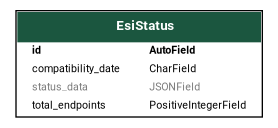
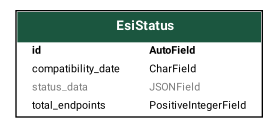
[RELEASE] v3.4.0
## [3.4.0] - 2026-06-02

### Changed

- (Internal) AppLogger simplified
- (Internal) Cache handler into Cache provider
- (Internal) Split providers into modules
- Translations updated

diff --git a/esistatus/providers/__init__.py b/esistatus/providers/__init__.py
@@ -1,0 +1,3 @@
+"""
+Initialize the providers
+"""

diff --git a/esistatus/__init__.py b/esistatus/__init__.py
@@ -8,7 +8,7 @@ import requests
 # Django
 from django.utils.translation import gettext_lazy as _
 
-__version__ = "3.3.5"
+__version__ = "3.4.0"
 __title__ = "ESI Status"
 __title_translated__ = _("ESI Status")
 

diff --git a/README.md b/README.md
@@ -89,7 +89,7 @@ Make sure you're in the virtual environment (venv) of your Alliance Auth install
 Then install the latest version:
 
 ```shell
-pip install aa-esi-status==3.3.5
+pip install aa-esi-status==3.4.0
 ```
 
 #### Step 2: Update Your AA Settings<a name="step-2-update-your-aa-settings"></a>
@@ -132,7 +132,7 @@ Restart your supervisor services for AA.
 Add the app to your `conf/requirements.txt`:
 
 ```text
-aa-esi-status==3.3.5
+aa-esi-status==3.4.0
 ```
 
 #### Step 2: Update Your AA Settings<a name="step-2-update-your-aa-settings-1"></a>
@@ -211,7 +211,7 @@ Then run the following commands from your AA project directory (the one that
 contains `manage.py`).
 
 ```shell
-pip install aa-esi-status==3.3.5
+pip install aa-esi-status==3.4.0
 python manage.py collectstatic
 python manage.py migrate
 ```
@@ -224,7 +224,7 @@ To update your existing installation of AA ESI Status, all you need to do is to
 update the respective line in your `conf/requirements.txt` file to the latest version.
 
 ```text
-aa-esi-status==3.3.5
+aa-esi-status==3.4.0
 ```
 
 Now rebuild your containers:

diff --git a/CHANGELOG.md b/CHANGELOG.md
@@ -37,11 +37,14 @@ Section Order:
 
 <!-- Your changes go here -->
 
+## [3.4.0] - 2026-06-02
+
 ### Changed
 
 - (Internal) AppLogger simplified
 - (Internal) Cache handler into Cache provider
 - (Internal) Split providers into modules
+- Translations updated
 
 ## [3.3.5] - 2026-05-05
 
@@ -750,7 +753,8 @@ CELERYBEAT_SCHEDULE["ESI Status :: Update"] = {
 [3.3.3]: https://github.com/ppfeufer/aa-esi-status/compare/v3.3.2...v3.3.3 "v3.3.3"
 [3.3.4]: https://github.com/ppfeufer/aa-esi-status/compare/v3.3.3...v3.3.4 "v3.3.4"
 [3.3.5]: https://github.com/ppfeufer/aa-esi-status/compare/v3.3.4...v3.3.5 "v3.3.5"
-[in development]: https://github.com/ppfeufer/aa-esi-status/compare/v3.3.5...HEAD "In Development"
+[3.4.0]: https://github.com/ppfeufer/aa-esi-status/compare/v3.3.5...v3.4.0 "v3.4.0"
+[in development]: https://github.com/ppfeufer/aa-esi-status/compare/v3.4.0...HEAD "In Development"
 [keep a changelog]: http://keepachangelog.com/ "Keep a Changelog"
 [readme]: https://github.com/ppfeufer/aa-esi-status/blob/main/README.md "README.md"
 [semantic versioning]: http://semver.org/ "Semantic Versioning"